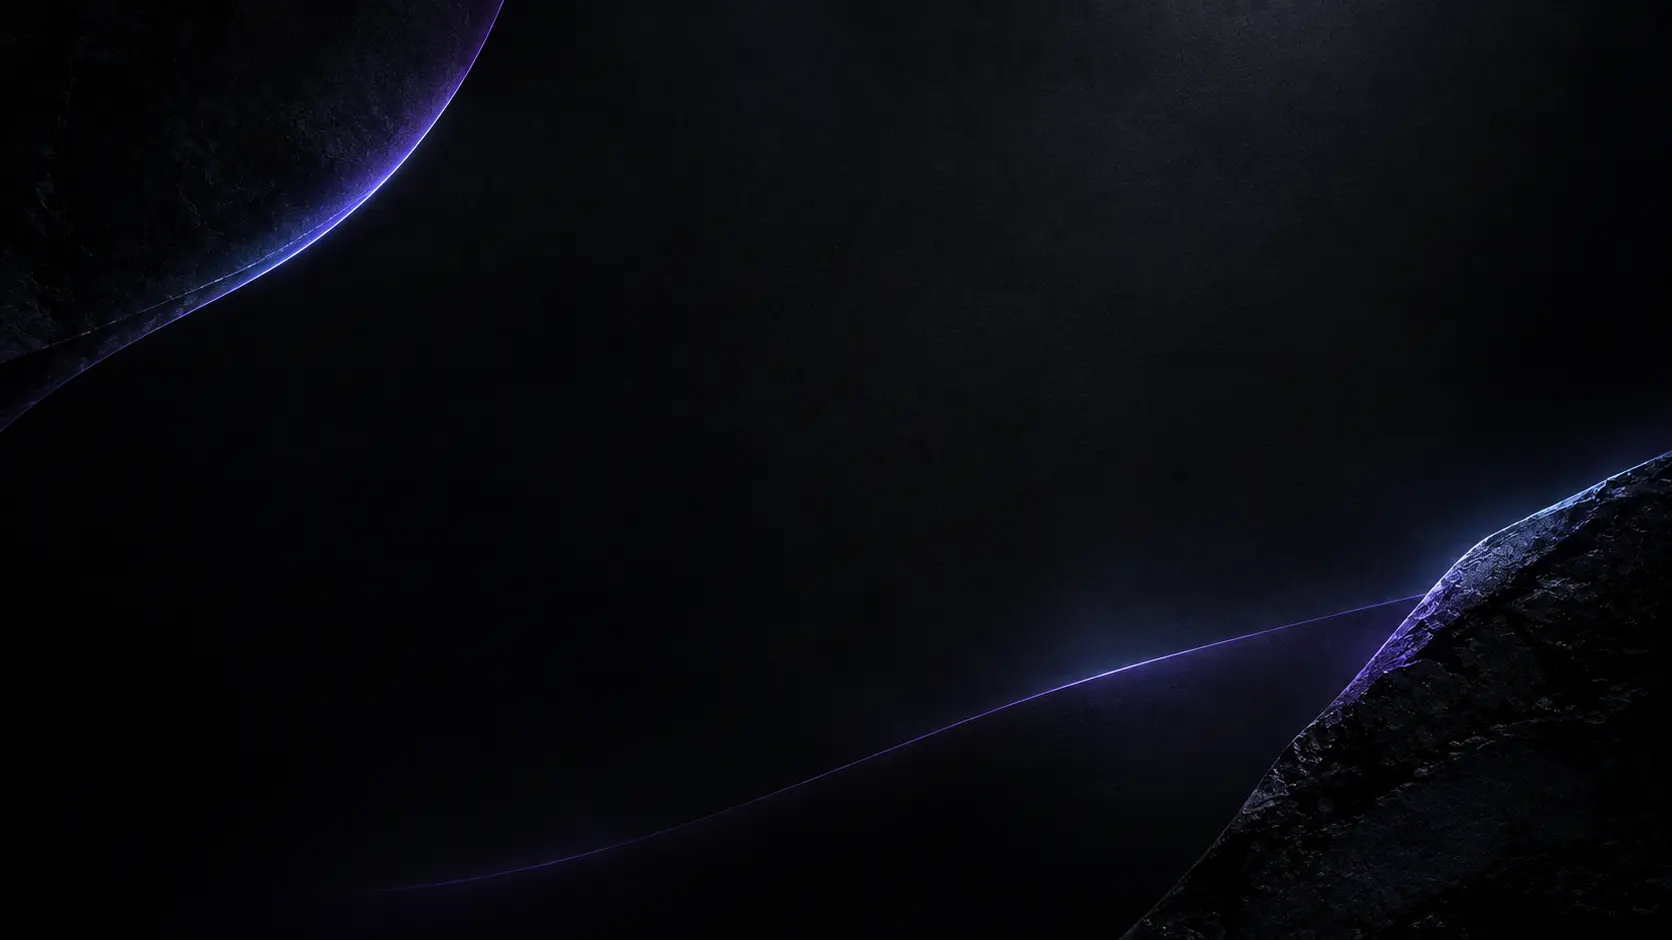
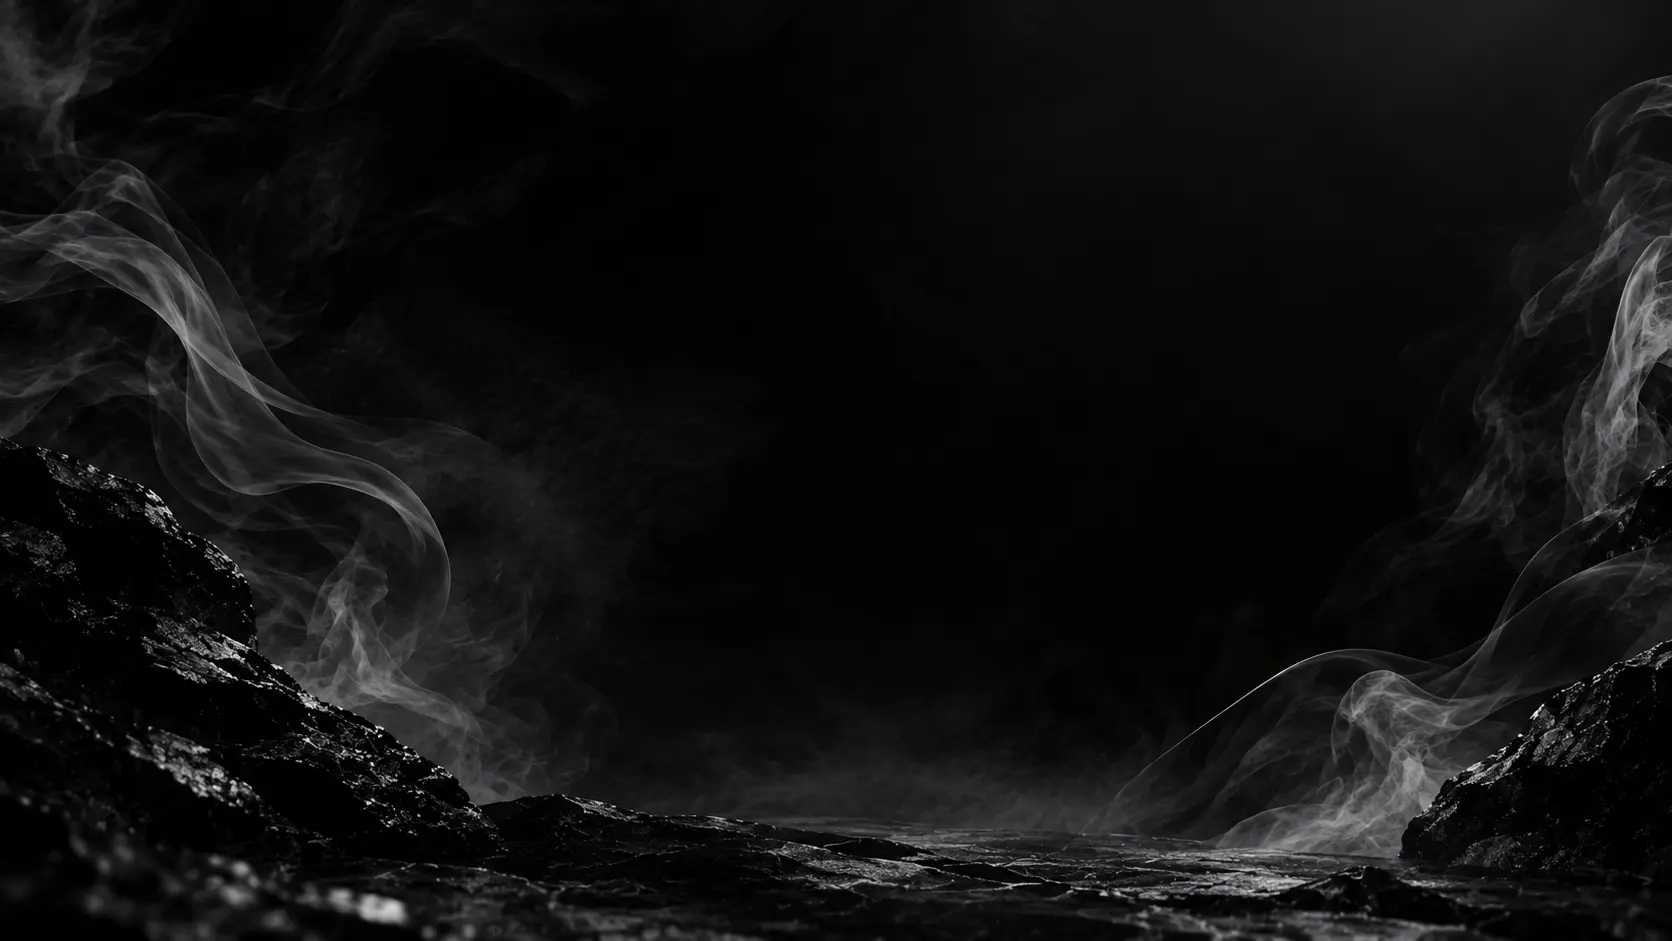
fasd

diff --git a/src/app/admin/admin-dashboard.tsx b/src/app/admin/admin-dashboard.tsx
@@ -1,6 +1,6 @@
 "use client";
 
-import { useCallback, useEffect, useMemo, useState } from "react";
+import { useCallback, useEffect, useMemo, useRef, useState } from "react";
 import Link from "next/link";
 import { useRouter } from "next/navigation";
 import * as Dialog from "@radix-ui/react-dialog";
@@ -202,6 +202,8 @@ export function AdminDashboard({
   const [asideOpen, setAsideOpen] = useState(false);
   const [specOptions, setSpecOptions] = useState<SpecOption[]>([]);
   const [specSearch, setSpecSearch] = useState("");
+  const [specStatus, setSpecStatus] = useState<"loading" | "ready" | "error">("loading");
+  const [specError, setSpecError] = useState<string>("");
 
   const [formOpen, setFormOpen] = useState(false);
   const [editingId, setEditingId] = useState<number | null>(null);
@@ -263,20 +265,32 @@ export function AdminDashboard({
     setAsideOpen(false);
   }, [tab]);
 
+  const loadSpecs = useCallback(async (signal?: AbortSignal) => {
+    setSpecStatus("loading");
+    setSpecError("");
+    try {
+      const res = await fetch("/api/admin/specs", { cache: "no-store", signal });
+      const data = await safeJson<{ ok?: boolean; specs?: SpecOption[]; message?: string }>(res);
+      if (!res.ok || !data?.ok) {
+        throw new Error(data?.message ?? `Server menolak permintaan (HTTP ${res.status}).`);
+      }
+      setSpecOptions(data.specs ?? []);
+      setSpecStatus("ready");
+    } catch (error) {
+      if ((error as Error).name === "AbortError") return; // dialog ditutup — abaikan
+      setSpecOptions([]);
+      setSpecError((error as Error).message || "Gagal memuat daftar spesifikasi.");
+      setSpecStatus("error");
+    }
+  }, []);
+
   useEffect(() => {
     if (!formOpen) return;
-    let cancelled = false;
     setSpecSearch("");
-    fetch("/api/admin/specs", { cache: "no-store" })
-      .then((res) => safeJson<{ ok?: boolean; specs?: SpecOption[] }>(res))
-      .then((data) => {
-        if (!cancelled && data?.ok) setSpecOptions(data.specs ?? []);
-      })
-      .catch(() => {});
-    return () => {
-      cancelled = true;
-    };
-  }, [formOpen]);
+    const controller = new AbortController();
+    loadSpecs(controller.signal);
+    return () => controller.abort();
+  }, [formOpen, loadSpecs]);
 
   const openCreate = () => {
     setEditingId(null);
@@ -679,7 +693,7 @@ export function AdminDashboard({
       {/* Toast */}
       {toast && (
         <div
-          className={`sticky top-4 z-50 flex items-center gap-2 rounded-xl border px-4 py-3 text-sm ${
+          className={`sticky top-[72px] z-50 flex items-center gap-2 rounded-xl border px-4 py-3 text-sm lg:top-4 ${
             toast.kind === "ok"
               ? "border-white/15 bg-white/[0.06] text-foreground"
               : "border-red-400/25 bg-red-400/10 text-red-300"
@@ -704,47 +718,56 @@ export function AdminDashboard({
 
       {/* Bar aplikasi + aside drawer (mobile & tablet) */}
       <div className="lg:hidden">
-        <div className="sticky top-4 z-40 mb-5 flex items-center justify-between gap-2 rounded-[1.25rem] border border-white/10 bg-[#0D0D0D]/90 px-3 py-2.5 shadow-[0_20px_60px_-20px_rgba(0,0,0,0.8)] backdrop-blur-xl">
-          <div className="flex items-center gap-2.5">
-            <button
-              type="button"
-              onClick={() => setAsideOpen(true)}
-              aria-label="Buka menu admin"
-              title="Buka menu admin"
-              className="flex h-10 w-10 items-center justify-center rounded-xl border border-white/10 text-muted-foreground transition-colors hover:border-white/30 hover:text-foreground"
-            >
-              <Menu className="h-5 w-5" aria-hidden />
-            </button>
-            <div>
-              <p className="font-headline text-sm font-extrabold tracking-[0.24em] text-foreground">
-                PAYOTA <span className="text-primary">Admin</span>
-              </p>
-              <p className="text-[9px] font-bold uppercase tracking-[0.2em] text-muted-foreground">
-                Manajemen Konten
-              </p>
+        {/**
+          * Bar diberi position: fixed agar tetap terlihat saat halaman di-scroll.
+          * (Sticky tidak bekerja di sini: induknya hanya selingkupi bar ini saja,
+          * sehingga rentang sticky-nya nol dan bar langsung tergulir keluar.)
+          */}
+        <div className="fixed inset-x-0 top-0 z-[45] border-b border-white/10 bg-[#0B0B0D]/95 backdrop-blur-xl">
+          <div className="flex items-center justify-between gap-2 px-3 py-2.5">
+            <div className="flex items-center gap-2.5">
+              <button
+                type="button"
+                onClick={() => setAsideOpen(true)}
+                aria-label="Buka menu admin"
+                title="Buka menu admin"
+                className="flex h-10 w-10 items-center justify-center rounded-xl border border-white/10 text-muted-foreground transition-colors hover:border-white/30 hover:text-foreground"
+              >
+                <Menu className="h-5 w-5" aria-hidden />
+              </button>
+              <div>
+                <p className="font-headline text-sm font-extrabold tracking-[0.24em] text-foreground">
+                  PAYOTA <span className="text-primary">Admin</span>
+                </p>
+                <p className="text-[9px] font-bold uppercase tracking-[0.2em] text-muted-foreground">
+                  Manajemen Konten
+                </p>
+              </div>
+            </div>
+            <div className="flex items-center gap-1.5">
+              <Link
+                href="/"
+                target="_blank"
+                aria-label="Buka situs"
+                title="Buka situs"
+                className="flex h-10 w-10 items-center justify-center rounded-full border border-white/10 text-muted-foreground transition-colors hover:border-white/30 hover:text-foreground"
+              >
+                <ExternalLink className="h-[18px] w-[18px]" aria-hidden />
+              </Link>
+              <button
+                type="button"
+                onClick={requestLogout}
+                aria-label="Logout"
+                title="Logout"
+                className="flex h-10 w-10 items-center justify-center rounded-full border border-white/10 text-muted-foreground transition-colors hover:border-red-400/40 hover:text-red-400"
+              >
+                <LogOut className="h-[18px] w-[18px]" aria-hidden />
+              </button>
             </div>
           </div>
-          <div className="flex items-center gap-1.5">
-            <Link
-              href="/"
-              target="_blank"
-              aria-label="Buka situs"
-              title="Buka situs"
-              className="flex h-10 w-10 items-center justify-center rounded-full border border-white/10 text-muted-foreground transition-colors hover:border-white/30 hover:text-foreground"
-            >
-              <ExternalLink className="h-[18px] w-[18px]" aria-hidden />
-            </Link>
-            <button
-              type="button"
-              onClick={requestLogout}
-              aria-label="Logout"
-              title="Logout"
-              className="flex h-10 w-10 items-center justify-center rounded-full border border-white/10 text-muted-foreground transition-colors hover:border-red-400/40 hover:text-red-400"
-            >
-              <LogOut className="h-[18px] w-[18px]" aria-hidden />
-            </button>
-          </div>
         </div>
+        {/* Spacer setinggi bar agar konten tidak tertutup bar fixed */}
+        <div className="h-[60px]" aria-hidden />
 
         {/* Aside drawer mobile */}
         <div
@@ -1674,7 +1697,40 @@ export function AdminDashboard({
                           </button>
                         ))
                       )
-                    ) : specOptions.length > 0 ? (
+                    ) : specStatus === "loading" ? (
+                      <p className="px-2 py-3 text-xs text-muted-foreground">
+                        Memuat daftar spesifikasi umum...
+                      </p>
+                    ) : specStatus === "error" ? (
+                      <div className="flex flex-col gap-2 px-2 py-3">
+                        <p className="text-xs leading-relaxed text-red-300">
+                          Gagal memuat: {specError}
+                        </p>
+                        <button
+                          type="button"
+                          onClick={() => loadSpecs()}
+                          className="flex w-fit items-center gap-1.5 rounded-full border border-white/10 px-3 py-1.5 text-[10px] font-bold uppercase tracking-[0.16em] text-muted-foreground transition-colors hover:border-white/30 hover:text-foreground"
+                        >
+                          <RefreshCw className="h-3.5 w-3.5" aria-hidden />
+                          Coba Lagi
+                        </button>
+                      </div>
+                    ) : specOptions.length === 0 ? (
+                      <div className="px-2 py-3 text-xs leading-relaxed text-muted-foreground">
+                        <p>Daftar spesifikasi umum masih kosong.</p>
+                        <p className="mt-1">
+                          Jalankan migration{" "}
+                          <code className="rounded bg-white/[0.06] px-1.5 py-0.5 text-foreground">
+                            migrations/009_vape_specs_master.sql
+                          </code>{" "}
+                          ke database (mis. via{" "}
+                          <code className="rounded bg-white/[0.06] px-1.5 py-0.5 text-foreground">
+                            node scripts/migrate.mjs
+                          </code>
+                          ), lalu klik Coba Lagi.
+                        </p>
+                      </div>
+                    ) : (
                       specGrouped.map(([group, rows]) => (
                         <div key={group}>
                           <p className="px-2 pb-1 pt-1 text-[10px] font-bold uppercase tracking-[0.2em] text-muted-foreground">
@@ -1694,10 +1750,6 @@ export function AdminDashboard({
                           </div>
                         </div>
                       ))
-                    ) : (
-                      <p className="px-2 py-3 text-xs text-muted-foreground">
-                        Memuat daftar spesifikasi umum...
-                      </p>
                     )}
                   </div>
                 </div>

diff --git a/src/components/payota/ProductImage.tsx b/src/components/payota/ProductImage.tsx
@@ -2,7 +2,6 @@
 
 import { useState } from "react";
 import Image from "next/image";
-import { ImageOff } from "lucide-react";
 import type { Product } from "@/data/products";
 
 /**
@@ -164,9 +163,10 @@ export function PayotaArt({ product }: { product: Product }) {
 }
 
 /**
- * Gambar produk yang selalu aman: kalau produk punya `image`, muat sebagai
- * <img>; gagal → placeholder elegan "IMAGE UNAVAILABLE". Tanpa gambar (dummy)
- * → render <PayotaArt />.
+ * Gambar produk yang selalu aman dengan rantai fallback:
+ * 1. Foto produk (jika ada) → gagal muat → turun ke default-product.webp.
+ * 2. default-product.webp (juga dipakai saat produk tanpa foto) → gagal muat → PayotaArt (SVG).
+ * Jadi tidak ada kondisi "broken image" yang tampil ke pengunjung.
  */
 export function ProductImage({
   product,
@@ -177,47 +177,44 @@ export function ProductImage({
   image?: string;
   className?: string;
 }) {
-  const [failed, setFailed] = useState(false);
+  // null = belum ada kegagalan; "remote" = foto produk gagal; "default" = default gagal
+  const [failed, setFailed] = useState<null | "remote" | "default">(null);
   const imageSrc = image ?? product.image;
 
-  if (!imageSrc) {
+  // Tahap 3: foto & default sama-sama gagal → render SVG generatif.
+  if (failed === "default") {
     return (
       <div className={`relative overflow-hidden ${className ?? ""}`}>
-        {failed ? (
-          <PayotaArt product={product} />
-        ) : (
-          <Image
-            src="/default-product.webp"
-            alt={`${product.name} visual`}
-            fill
-            sizes="(min-width: 1280px) 25vw, (min-width: 768px) 33vw, 92vw"
-            className="object-cover"
-            onError={() => setFailed(true)}
-          />
-        )}
+        <PayotaArt product={product} />
       </div>
     );
   }
 
-  if (failed) {
+  // Tahap 1: foto produk ada dan belum gagal → muat sebagai <img> remote.
+  if (imageSrc && failed !== "remote") {
     return (
-      <div className={`flex flex-col items-center justify-center gap-2 bg-[#0D0D0D] ${className ?? ""}`}>
-        <ImageOff className="h-6 w-6 text-muted-foreground" aria-hidden />
-        <span className="text-[10px] font-bold uppercase tracking-[0.25em] text-muted-foreground">
-          Gambar tidak tersedia
-        </span>
-      </div>
+      // eslint-disable-next-line @next/next/no-img-element
+      <img
+        src={imageSrc}
+        alt={`${product.name} visual`}
+        loading="lazy"
+        onError={() => setFailed("remote")}
+        className={`object-contain ${className ?? ""}`}
+      />
     );
   }
 
+  // Tahap 2: tanpa foto, atau foto gagal → default-product.webp via next/image.
   return (
-    // eslint-disable-next-line @next/next/no-img-element
-    <img
-      src={imageSrc}
-      alt={`${product.name} visual`}
-      loading="lazy"
-      onError={() => setFailed(true)}
-      className={`object-contain ${className ?? ""}`}
-    />
+    <div className={`relative overflow-hidden ${className ?? ""}`}>
+      <Image
+        src="/default-product.webp"
+        alt={`${product.name} visual`}
+        fill
+        sizes="(min-width: 1280px) 25vw, (min-width: 768px) 33vw, 92vw"
+        className="object-cover"
+        onError={() => setFailed("default")}
+      />
+    </div>
   );
 }

diff --git a/src/app/not-found.tsx b/src/app/not-found.tsx
@@ -1,19 +1,66 @@
+import type { Metadata } from "next";
+import Image from "next/image";
 import Link from "next/link";
+
+export const metadata: Metadata = {
+  title: "404 — Halaman Tidak Ditemukan",
+  robots: { index: false, follow: false },
+};
 
 export default function NotFound() {
   return (
-    <div className="container-px flex min-h-[70vh] flex-col items-center justify-center pt-28 text-center">
-      <p className="text-[11px] font-bold uppercase tracking-[0.32em] text-primary">404</p>
-      <h1 className="mt-5 font-headline text-5xl font-extrabold uppercase tracking-tighter">
-        Page not found
-      </h1>
-      <p className="mt-4 max-w-sm text-sm leading-relaxed text-muted-foreground">
-        The page you are looking for doesn&apos;t exist — or has been moved. Let&apos;s get you back
-        to the collection.
-      </p>
-      <Link href="/" className="btn-primary mt-9">
-        Back to home
-      </Link>
+    <div className="container-px flex min-h-screen flex-col items-center justify-center gap-10 py-24 text-center lg:flex-row lg:gap-16 lg:text-left">
+      {/* Visual 404 */}
+      <div className="relative w-full max-w-md shrink-0 animate-scale-in">
+        <div
+          className="absolute inset-0 -z-10 rounded-full blur-[120px]"
+          style={{ background: "radial-gradient(circle, rgba(228,228,231,0.14), transparent 70%)" }}
+          aria-hidden
+        />
+        <div className="relative aspect-[4/3] overflow-hidden rounded-[2rem] border border-white/[0.07] shadow-[0_40px_120px_-40px_rgba(0,0,0,0.9)]">
+          <Image
+            src="/404.webp"
+            alt="Ilustrasi halaman tidak ditemukan"
+            fill
+            sizes="(min-width: 1024px) 480px, 92vw"
+            className="object-cover"
+            priority
+          />
+        </div>
+      </div>
+
+      {/* Copy */}
+      <div className="flex max-w-md flex-col items-center gap-6 lg:items-start">
+        <p className="animate-fade-up text-[11px] font-bold uppercase tracking-[0.32em] text-primary">
+          404 — Halaman Tidak Ditemukan
+        </p>
+        <h1
+          className="animate-fade-up font-headline font-extrabold uppercase tracking-tighter"
+          style={{ fontSize: "clamp(2rem, 5vw, 3.5rem)", lineHeight: 1.02, animationDelay: "80ms" }}
+        >
+          Anda tersesat
+          <br />
+          di sini.
+        </h1>
+        <p
+          className="animate-fade-up text-sm leading-relaxed text-muted-foreground"
+          style={{ animationDelay: "160ms" }}
+        >
+          Halaman yang Anda cari tidak ada atau sudah dipindahkan. Tidak apa-apa — mari kembali ke
+          koleksi utama.
+        </p>
+        <div
+          className="animate-fade-up flex flex-wrap items-center justify-center gap-4 lg:justify-start"
+          style={{ animationDelay: "240ms" }}
+        >
+          <Link href="/" className="btn-primary">
+            Kembali ke Beranda
+          </Link>
+          <Link href="/catalog" className="btn-outline">
+            Lihat Katalog
+          </Link>
+        </div>
+      </div>
     </div>
   );
 }
